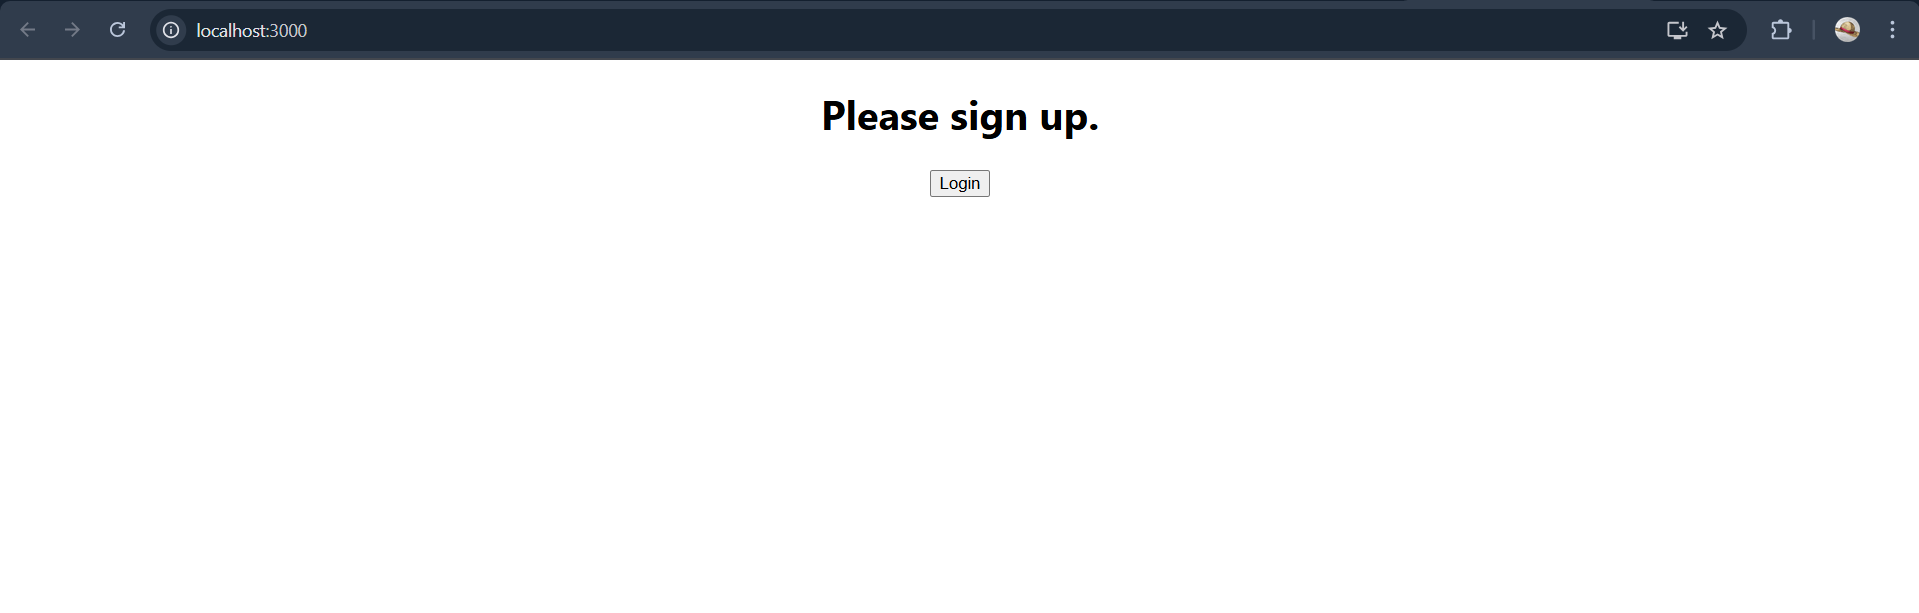
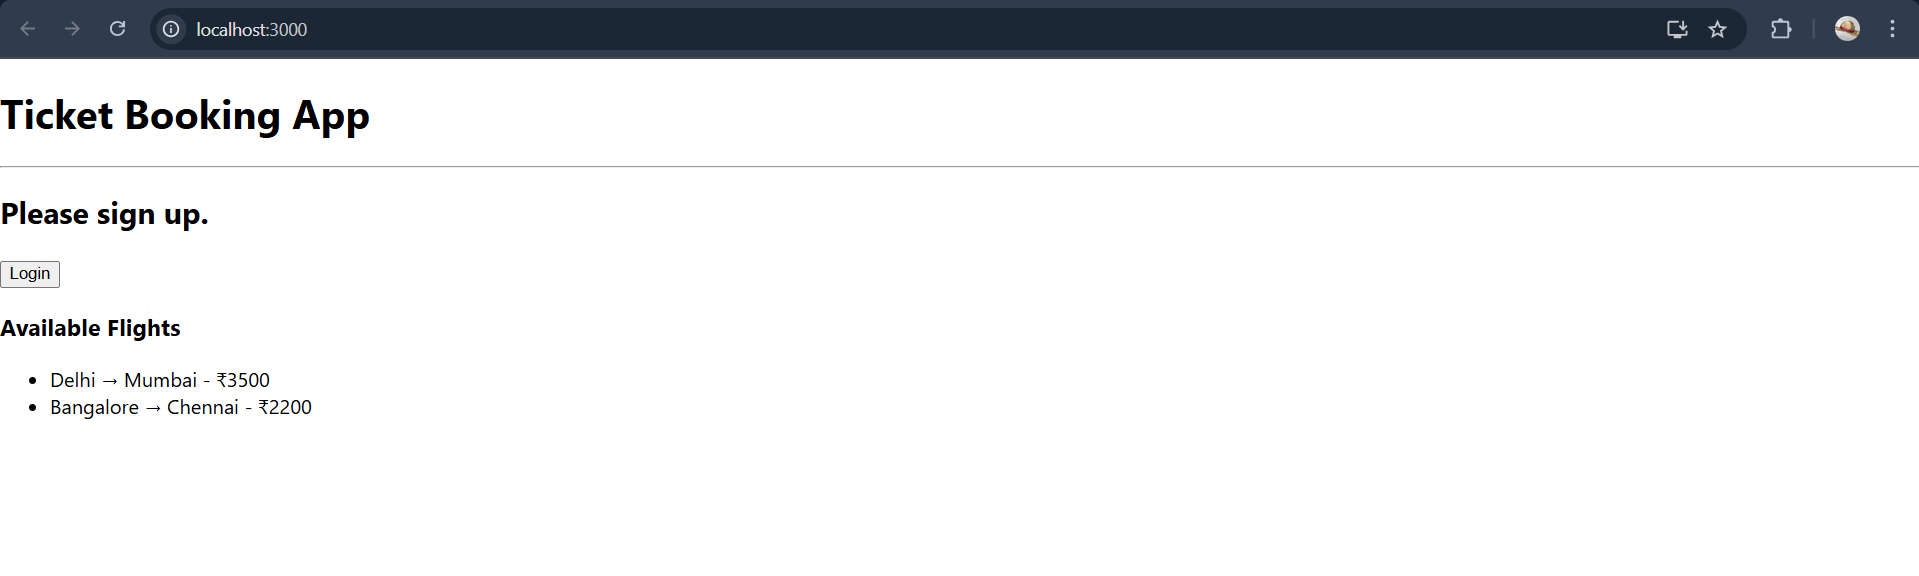
Week 7 Hands-on Submission

diff --git a/Week7/Week7_React/Exercise12/Code/ticketbookingapp/src/App.js b/Week7/Week7_React/Exercise12/Code/ticketbookingapp/src/App.js
@@ -3,11 +3,16 @@ import './App.css';
 import { useState } from 'react';
 import { GuestPage } from './GuestPage';
 import { LoginPage } from './LoginPage';
+import { FlightDetails } from './FlightDetails';
+
 function App() {
   const [isLoggedIn , SetLoggedIn] = useState(false);
   return (
     <div className="App">
+      <h1>Ticket Booking App</h1>
+      <hr/>
       {isLoggedIn ? <LoginPage onLogout={()=>{SetLoggedIn(false)}}/>:<GuestPage onLogin={()=>SetLoggedIn(true)}/>}
+      <FlightDetails Login={isLoggedIn}/>
     </div>
   );
 }

diff --git a/Week7/Week7_React/Exercise12/Code/ticketbookingapp/src/FlightDetails.js b/Week7/Week7_React/Exercise12/Code/ticketbookingapp/src/FlightDetails.js
@@ -1,0 +1,16 @@
+import React from 'react';
+
+export const FlightDetails = ({Login}) => {
+  const handleClick=()=>{
+    alert("Booking Successfull")
+  }
+  return (
+    <div>
+      <h3>Available Flights</h3>
+      <ul>
+        <li>Delhi → Mumbai - ₹3500 {Login && <button onClick={handleClick}>Book</button>}</li>
+        <li>Bangalore → Chennai - ₹2200  {Login && <button onClick={handleClick}>Book</button>}</li>
+      </ul>
+    </div>
+  );
+};

diff --git a/Week7/Week7_React/Exercise12/Code/ticketbookingapp/src/GuestPage.js b/Week7/Week7_React/Exercise12/Code/ticketbookingapp/src/GuestPage.js
@@ -1,7 +1,7 @@
 export const GuestPage=({onLogin})=>{
     return(
         <div>
-            <h1>Please sign up.</h1>
+            <h2>Please sign up.</h2>
             <button onClick={onLogin}>Login</button>
         </div>
     )

diff --git a/Week7/Week7_React/Exercise12/Code/ticketbookingapp/src/LoginPage.js b/Week7/Week7_React/Exercise12/Code/ticketbookingapp/src/LoginPage.js
@@ -1,7 +1,7 @@
 export const LoginPage=({onLogout})=>{
     return(
         <div>
-            <h1>Welcome back</h1>
+            <h2>Welcome back</h2>
             <button onClick={onLogout}>Logout</button>
         </div>
     )

diff --git a/Week7/Week7_React/Exercise12/Code/ticketbookingapp/src/App.css b/Week7/Week7_React/Exercise12/Code/ticketbookingapp/src/App.css
@@ -1,5 +1,5 @@
 .App {
-  text-align: center;
+  text-align: left;
 }
 
 .App-logo {
